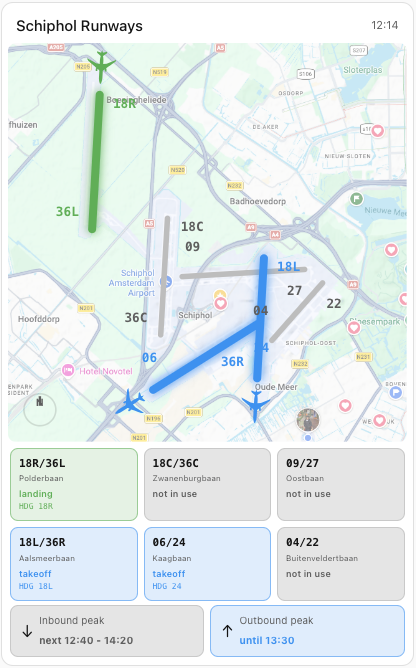
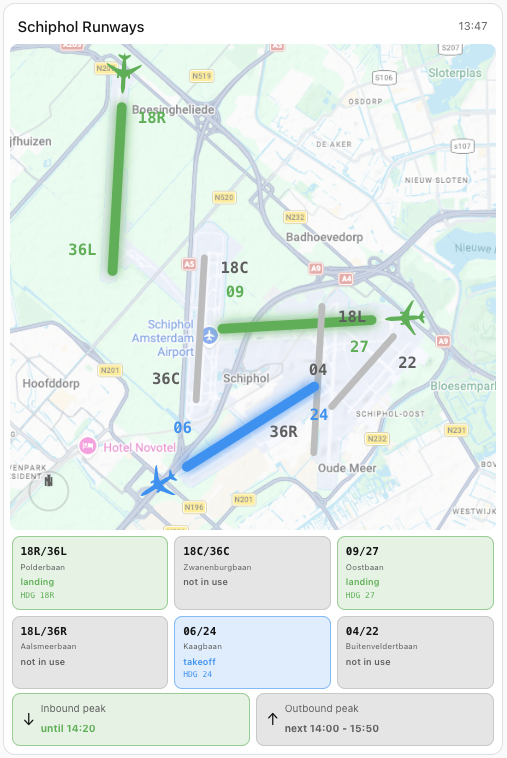
Update card preview pinc

diff --git a/README.md b/README.md
@@ -40,7 +40,7 @@ HACS registers the dashboard resource automatically — no manual resource step 
 
 ### Manual Installation
 
-1. Download `schiphol-runway-card.js` from the latest release
+1. Download `schiphol-runway-card.js` from the [latest release][release-url] 
 2. Copy it to `/config/www/schiphol-runway-card.js`
 3. Add it as a resource: **Settings -> Dashboards -> menu -> Resources -> Add Resource**
    ```